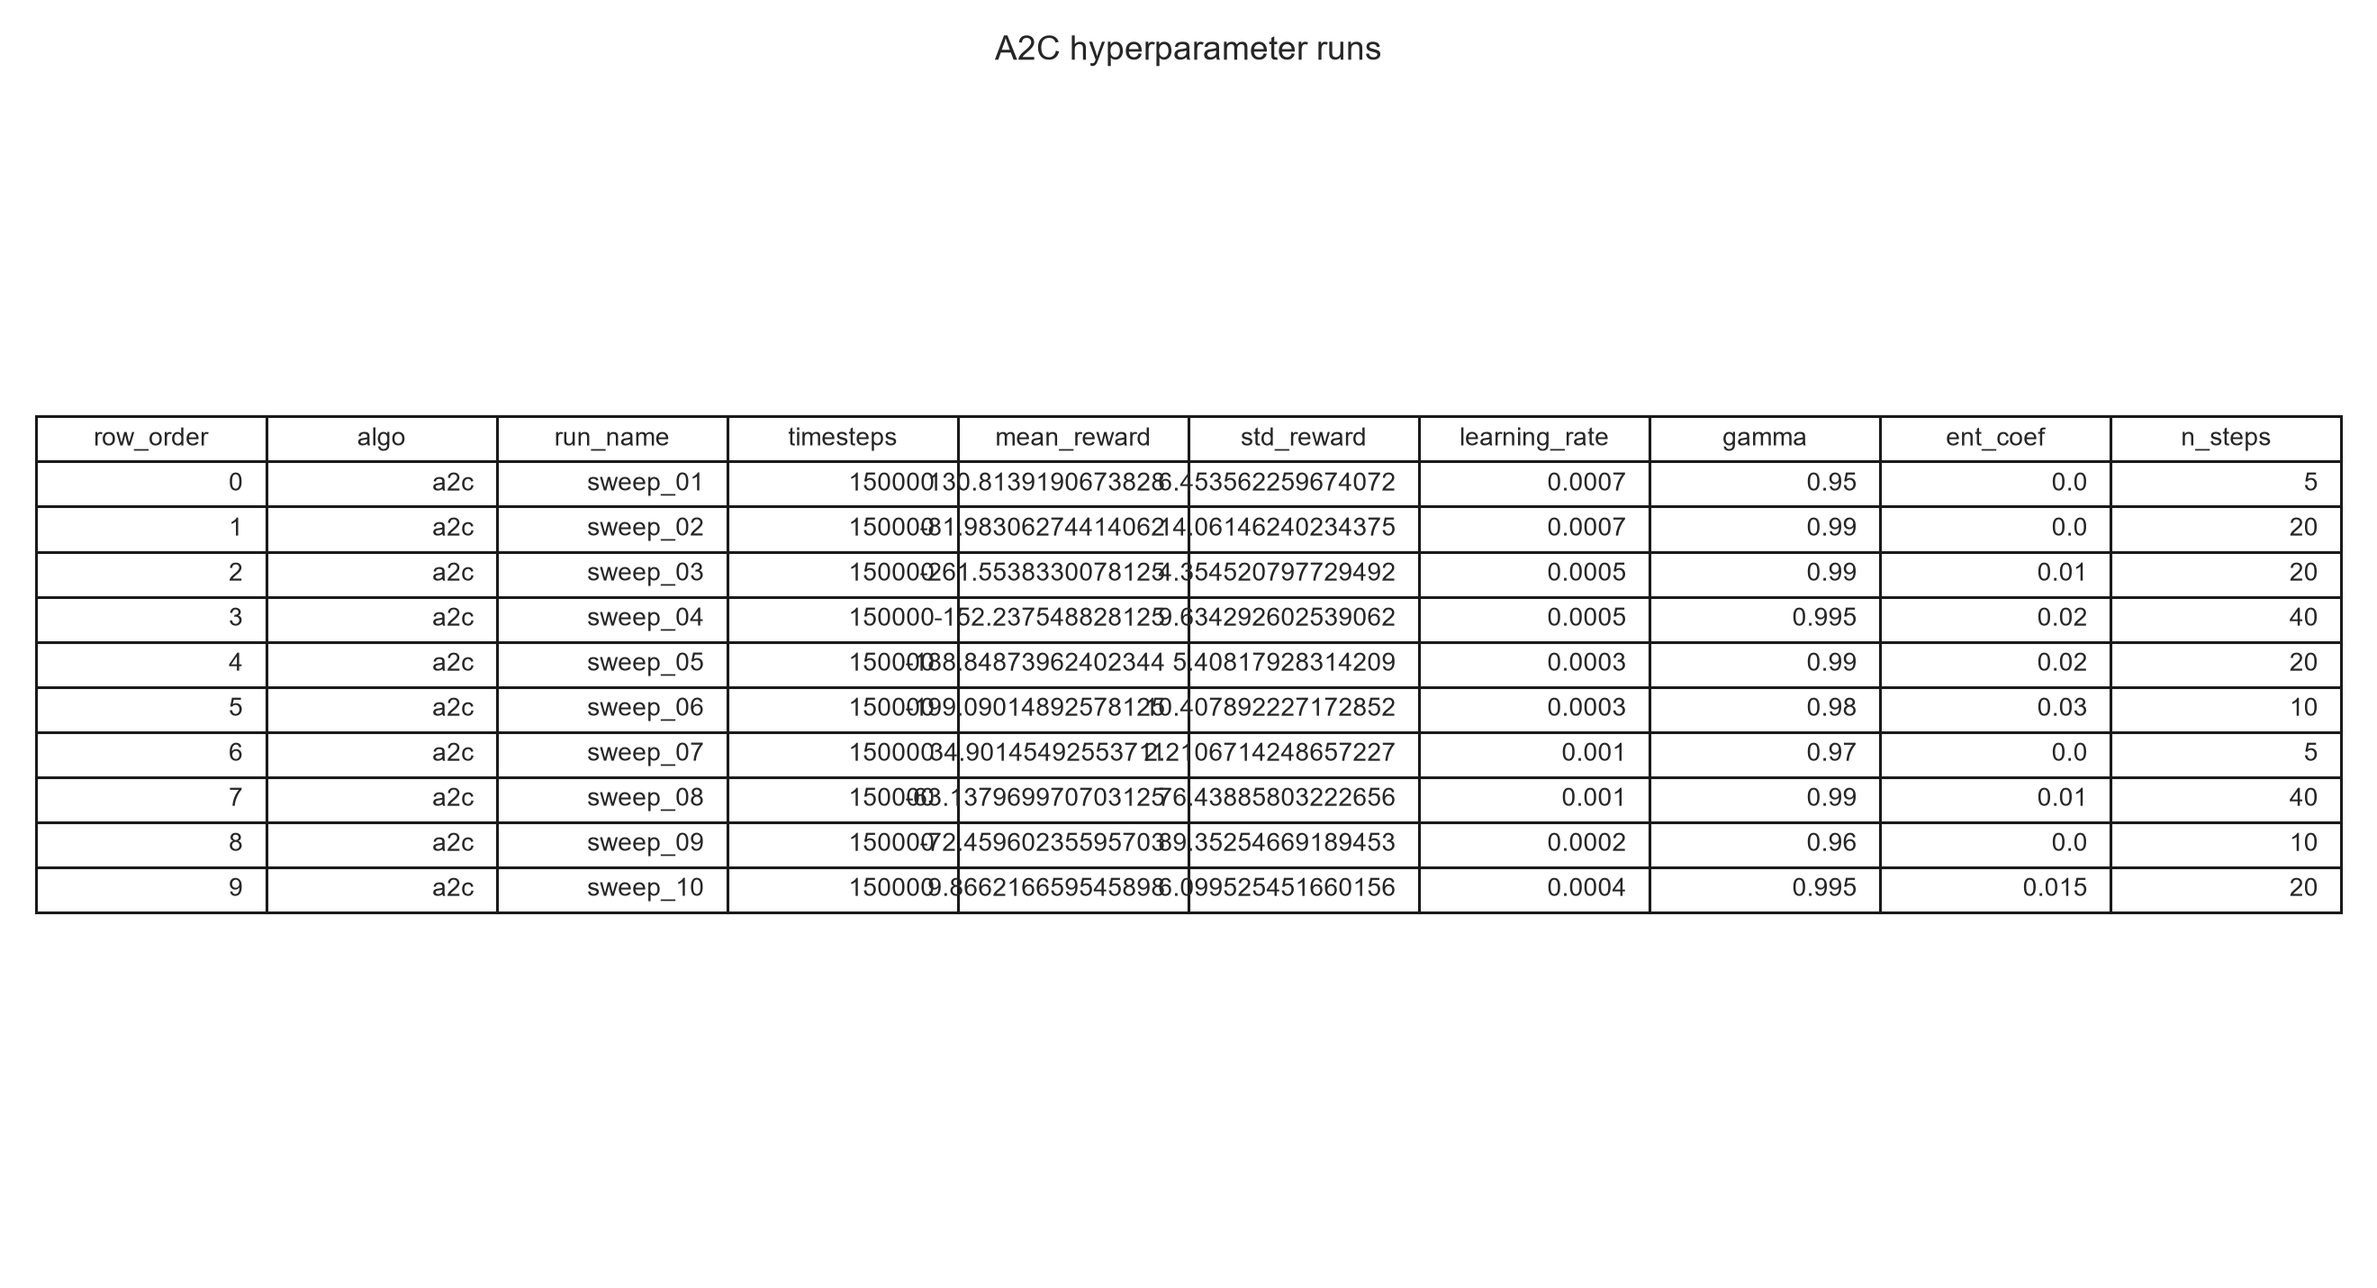
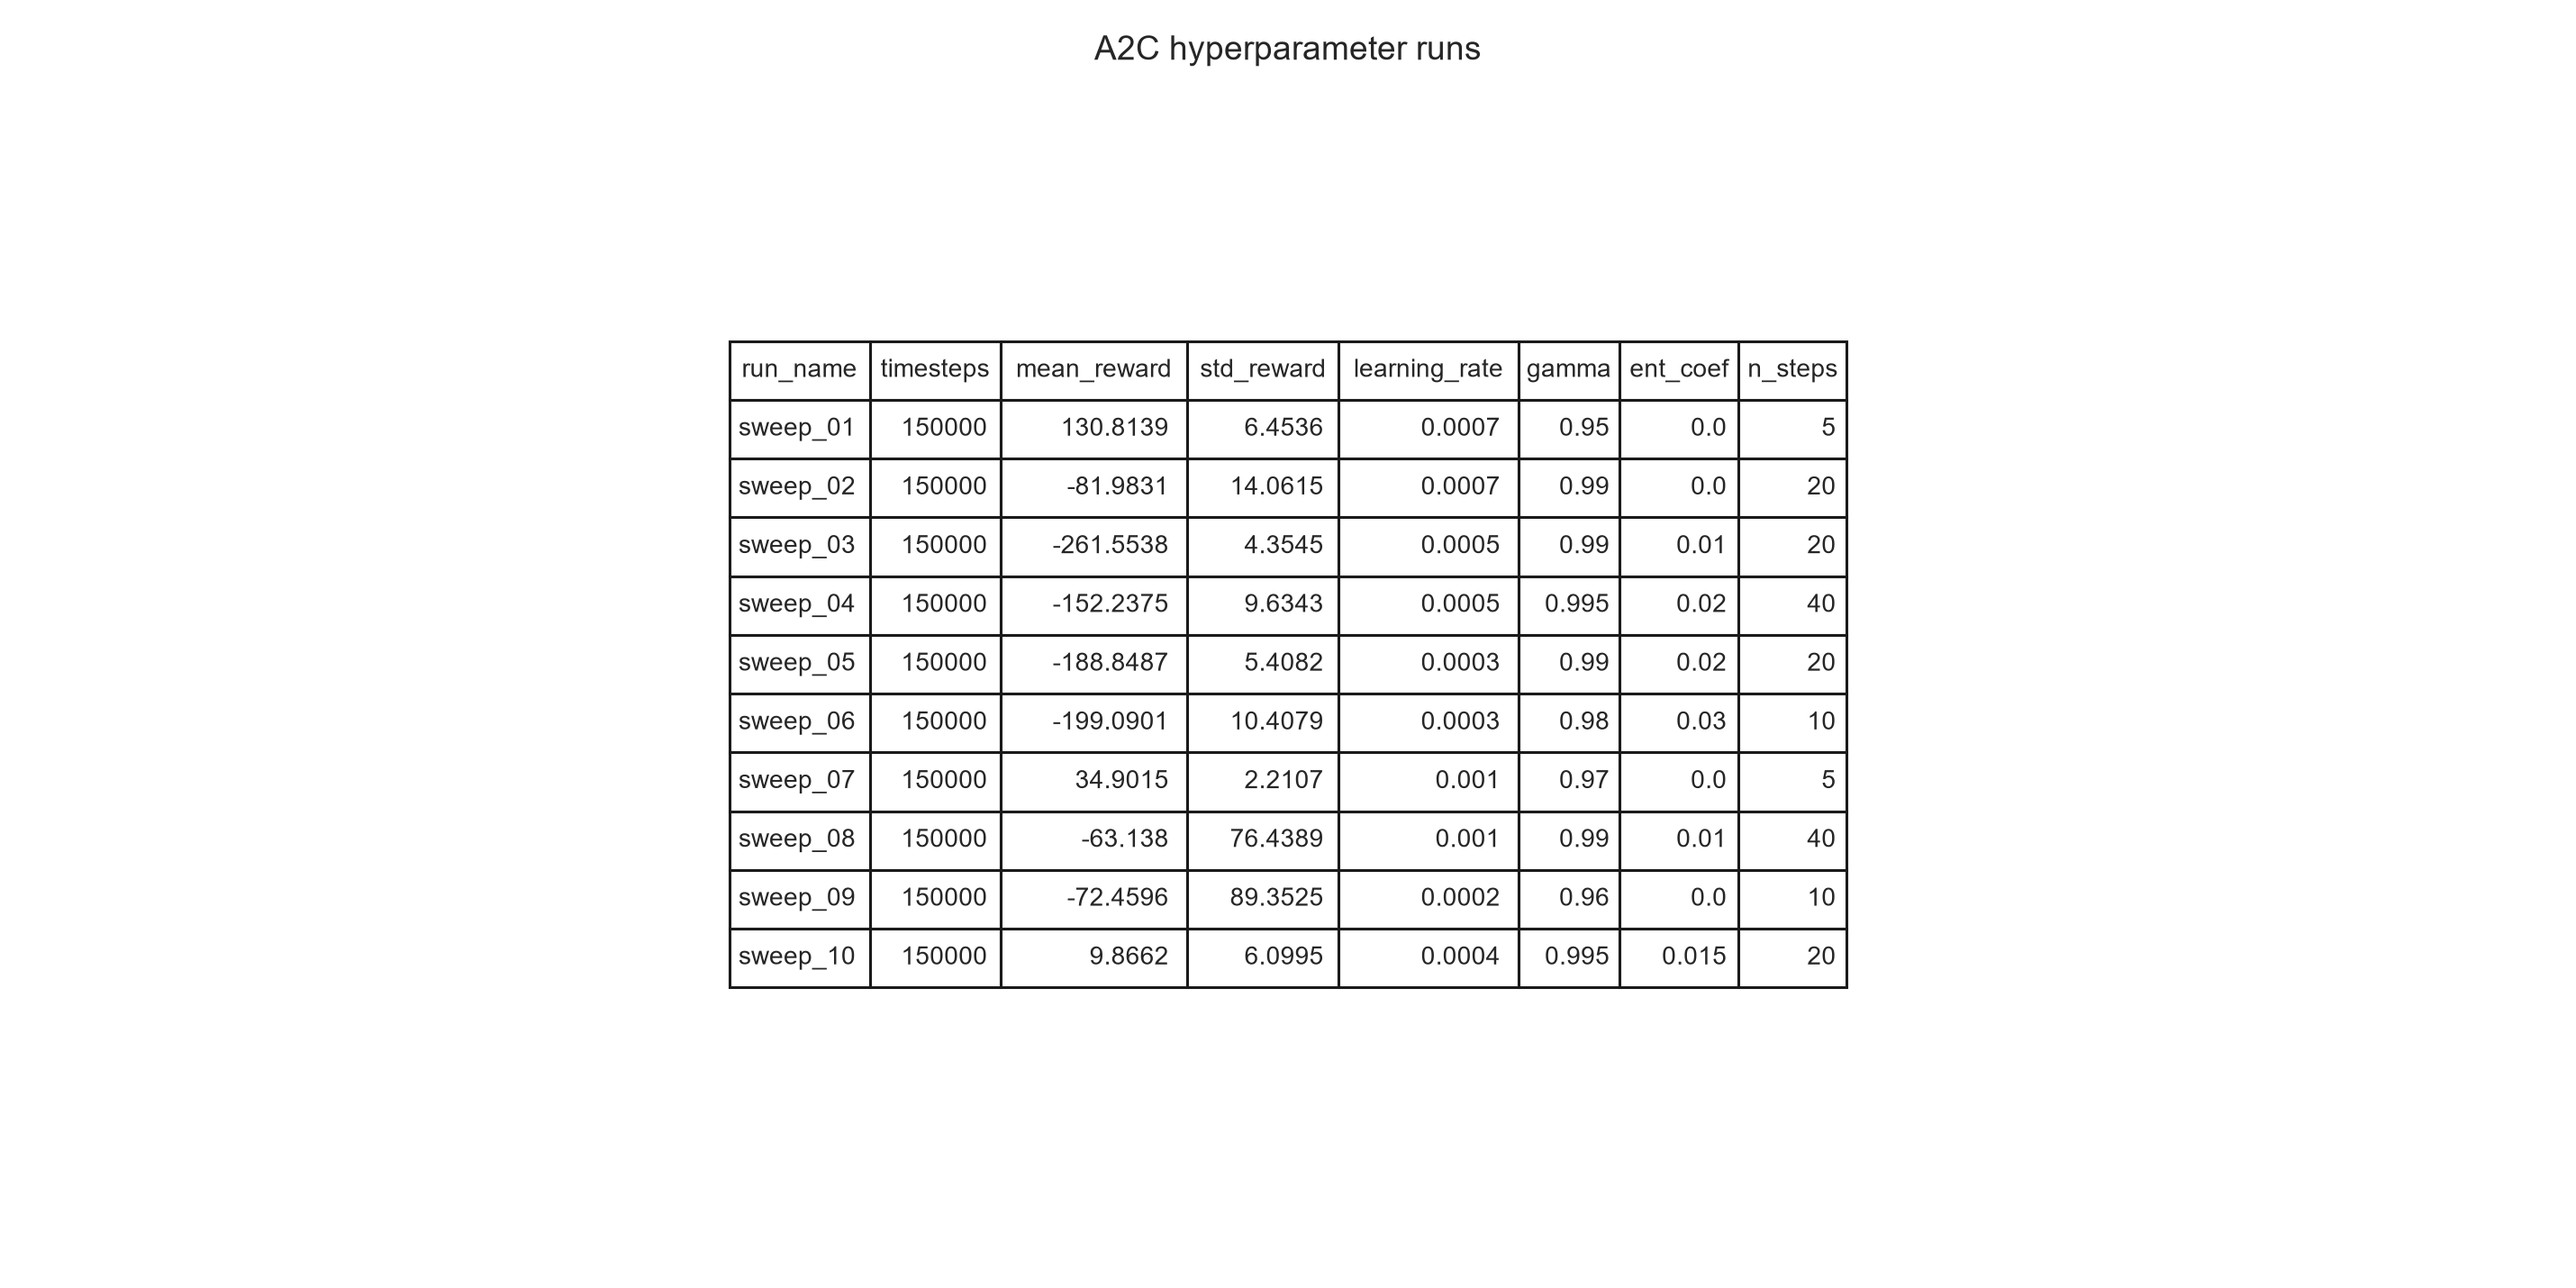
Fix overlapping/unreadable numbers in hyperparameter table chart images
save_table_png() rendered raw unrounded floats (mean_reward etc. with
15+ significant digits) into equal-width matplotlib table columns, so
long numeric strings overflowed into neighboring cells and became
visually unreadable. Fixed by rounding float columns to 4 decimals,
dropping the redundant row_order/algo bookkeeping columns (row_order is
meaningless to a reader, algo is already stated in the chart title),
and using auto_set_column_width() so columns size to their actual
content instead of splitting the figure width evenly.

diff --git a/training/analysis.py b/training/analysis.py
@@ -26,12 +26,20 @@ def load_results(name: str) -> pd.DataFrame | None:
 
 def save_table_png(df: pd.DataFrame, out_path: Path, title: str) -> None:
     out_path.parent.mkdir(parents=True, exist_ok=True)
-    fig, ax = plt.subplots(figsize=(12, 3 + 0.35 * len(df)))
+
+    # row_order is internal bookkeeping and algo is redundant with the title; drop both.
+    # Round floats so long decimal expansions don't overflow their cell into neighbors.
+    view = df.drop(columns=[c for c in ("row_order", "algo") if c in df.columns]).copy()
+    float_cols = view.select_dtypes(include="float").columns
+    view[float_cols] = view[float_cols].round(4)
+
+    fig, ax = plt.subplots(figsize=(13, 3 + 0.35 * len(view)))
     ax.axis("off")
-    tbl = ax.table(cellText=df.values, colLabels=df.columns, loc="center")
+    tbl = ax.table(cellText=view.values, colLabels=view.columns, loc="center")
     tbl.auto_set_font_size(False)
     tbl.set_fontsize(9)
-    tbl.scale(1, 1.15)
+    tbl.auto_set_column_width(col=list(range(len(view.columns))))
+    tbl.scale(1, 1.5)
     ax.set_title(title)
     fig.tight_layout()
     fig.savefig(out_path, dpi=220)
